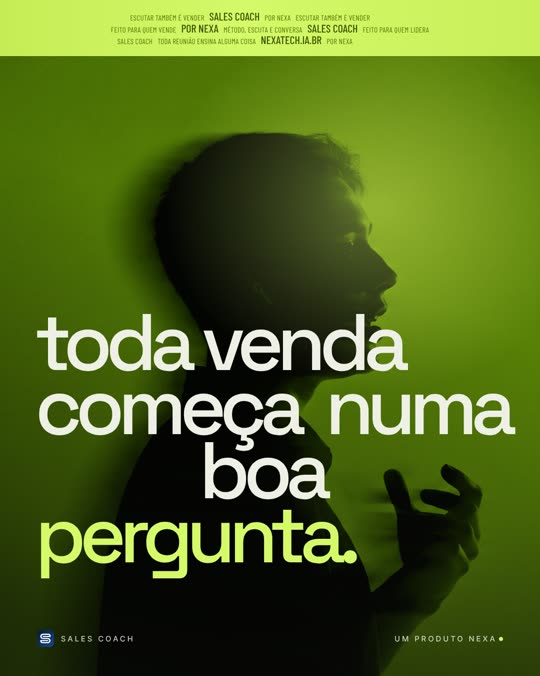
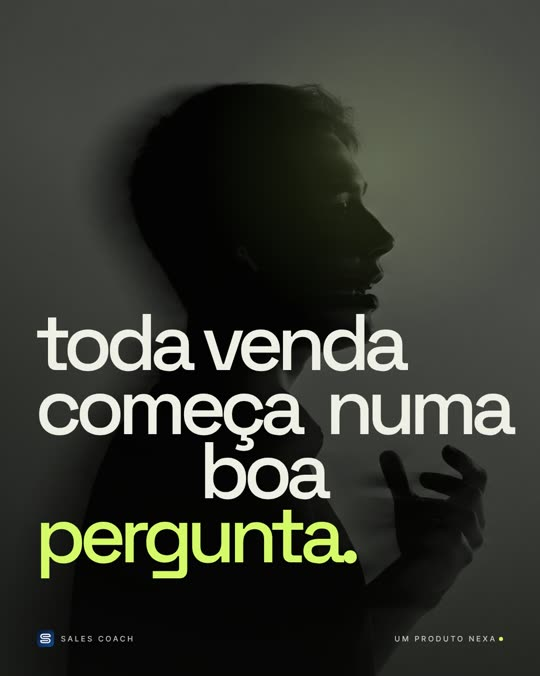
Post de frase do Sales Coach: fundo grafite e sem a faixa do topo
As cores da NEXA ficam só nos destaques: brilho lima atrás da cabeça,
frase em osso e o fecho em lima.

Claude-Session: https://claude.ai/code/session_01D69rV6pxRKedanUm525i1S

diff --git a/social/post-frase-sc-blur/post.html b/social/post-frase-sc-blur/post.html
@@ -8,15 +8,11 @@
      texto repetido no topo. ?f=<foto em fotos/>&t=<id da frase> */
   :root { --tinta: #10120e; --osso: #eef0e6; --lima: #d4f969; --oliva: #587406; }
   html, body { margin: 0; width: 1080px; height: 1350px; overflow: hidden; background: var(--tinta); }
-  .faixa { position: absolute; left: 0; right: 0; top: 0; height: 112px; background: linear-gradient(90deg, #c6ec55, var(--lima) 45%, #c9ef5a);
     display: grid; align-content: center; justify-items: center; gap: 1px; font-family: 'Barlow Condensed', sans-serif; text-transform: uppercase; color: var(--oliva); line-height: 1.02; }
-  .faixa p { margin: 0; white-space: nowrap; font-size: 15px; letter-spacing: .02em; }
-  .faixa b { font-weight: 500; font-size: 22px; letter-spacing: 0; color: #3d5203; }
-  .faixa p:nth-child(1) { transform: translateX(-40px); } .faixa p:nth-child(3) { transform: translateX(-70px); }
-  .cena { position: absolute; left: 0; right: 0; top: 112px; bottom: 0; overflow: hidden; }
+  .cena { position: absolute; inset: 0; overflow: hidden; }
   .cena img { position: absolute; inset: 0; width: 100%; height: 100%; object-fit: cover; object-position: var(--ox, 80%) center; filter: url(#duo) contrast(1.05); }
   .brilho { position: absolute; inset: 0; background:
-      radial-gradient(55% 42% at var(--gx, 70%) var(--gy, 24%), rgba(212,249,105,.42), rgba(212,249,105,0) 72%),
+      radial-gradient(55% 42% at var(--gx, 70%) var(--gy, 24%), rgba(212,249,105,.16), rgba(212,249,105,0) 60%),
       linear-gradient(180deg, rgba(16,18,14,0) 55%, rgba(16,18,14,.35)); mix-blend-mode: screen; }
   .sombra { position: absolute; inset: 0; background: linear-gradient(200deg, rgba(16,18,14,0) 35%, rgba(16,18,14,.62) 92%); mix-blend-mode: multiply; }
   .vinheta { position: absolute; inset: 0; background: radial-gradient(120% 90% at 50% 40%, rgba(0,0,0,0) 55%, rgba(16,18,14,.45)); }
@@ -36,16 +32,11 @@
 <svg width="0" height="0" style="position:absolute"><filter id="duo" color-interpolation-filters="sRGB">
   <feColorMatrix type="matrix" values=".33 .33 .33 0 0  .33 .33 .33 0 0  .33 .33 .33 0 0  0 0 0 1 0"/>
   <feComponentTransfer>
-    <feFuncR type="table" tableValues="0.035 0.04 0.13 0.30 0.47"/>
-    <feFuncG type="table" tableValues="0.04 0.05 0.20 0.44 0.63"/>
-    <feFuncB type="table" tableValues="0.03 0.03 0.02 0.04 0.07"/>
+    <feFuncR type="table" tableValues="0.03 0.045 0.13 0.26 0.39"/>
+    <feFuncG type="table" tableValues="0.032 0.047 0.135 0.268 0.40"/>
+    <feFuncB type="table" tableValues="0.028 0.042 0.125 0.25 0.375"/>
   </feComponentTransfer>
 </filter></svg>
-<div class="faixa">
-  <p>escutar também é vender &nbsp; <b>sales coach</b> &nbsp; por nexa &nbsp; escutar também é vender</p>
-  <p>feito para quem vende &nbsp; <b>por nexa</b> &nbsp; método, escuta e conversa &nbsp; <b>sales coach</b> &nbsp; feito para quem lidera</p>
-  <p>sales coach &nbsp; toda reunião ensina alguma coisa &nbsp; <b>nexatech.ia.br</b> &nbsp; por nexa</p>
-</div>
 <div class="cena"><img id="foto" alt=""><div class="brilho"></div><div class="sombra"></div><div class="vinheta"></div><div class="grao"></div></div>
 <h1 class="frase" id="frase"></h1>
 <div class="assina"><span class="m"><img src="sc-icone.png" alt="">Sales Coach</span><span>um produto nexa<i></i></span></div>

diff --git a/social/post-frase-sc-blur/README.md b/social/post-frase-sc-blur/README.md
@@ -1,6 +1,6 @@
 # Post de frase do Sales Coach · silhueta em movimento
 
-Post de frase emblemática (4:5, 1080x1350), sem venda, na pegada de uma referência de nov/2026: silhueta com motion blur, frase enorme em minúsculas e faixa de texto repetido no topo. Feito nas cores da NEXA: duotone tinta → oliva → lima, frase em osso e o fecho em lima.
+Post de frase emblemática (4:5, 1080x1350), sem venda, na pegada de uma referência de nov/2026: silhueta com motion blur e frase enorme em minúsculas. Fundo grafite (duotone tinta → grafite); as cores da NEXA só nos destaques: brilho lima atrás da cabeça, frase em osso e o fecho em lima.
 
 - `fotos/foto.jpg`: a foto, gerada por IA (ElevenLabs, modelo krea-3) em preto e branco; o duotone é aplicado no HTML. Ative o rótulo "Conteúdo feito com IA".
 - `post.html?t=<pergunta|escuta>`: a arte, com a frase em `FRASES`.
